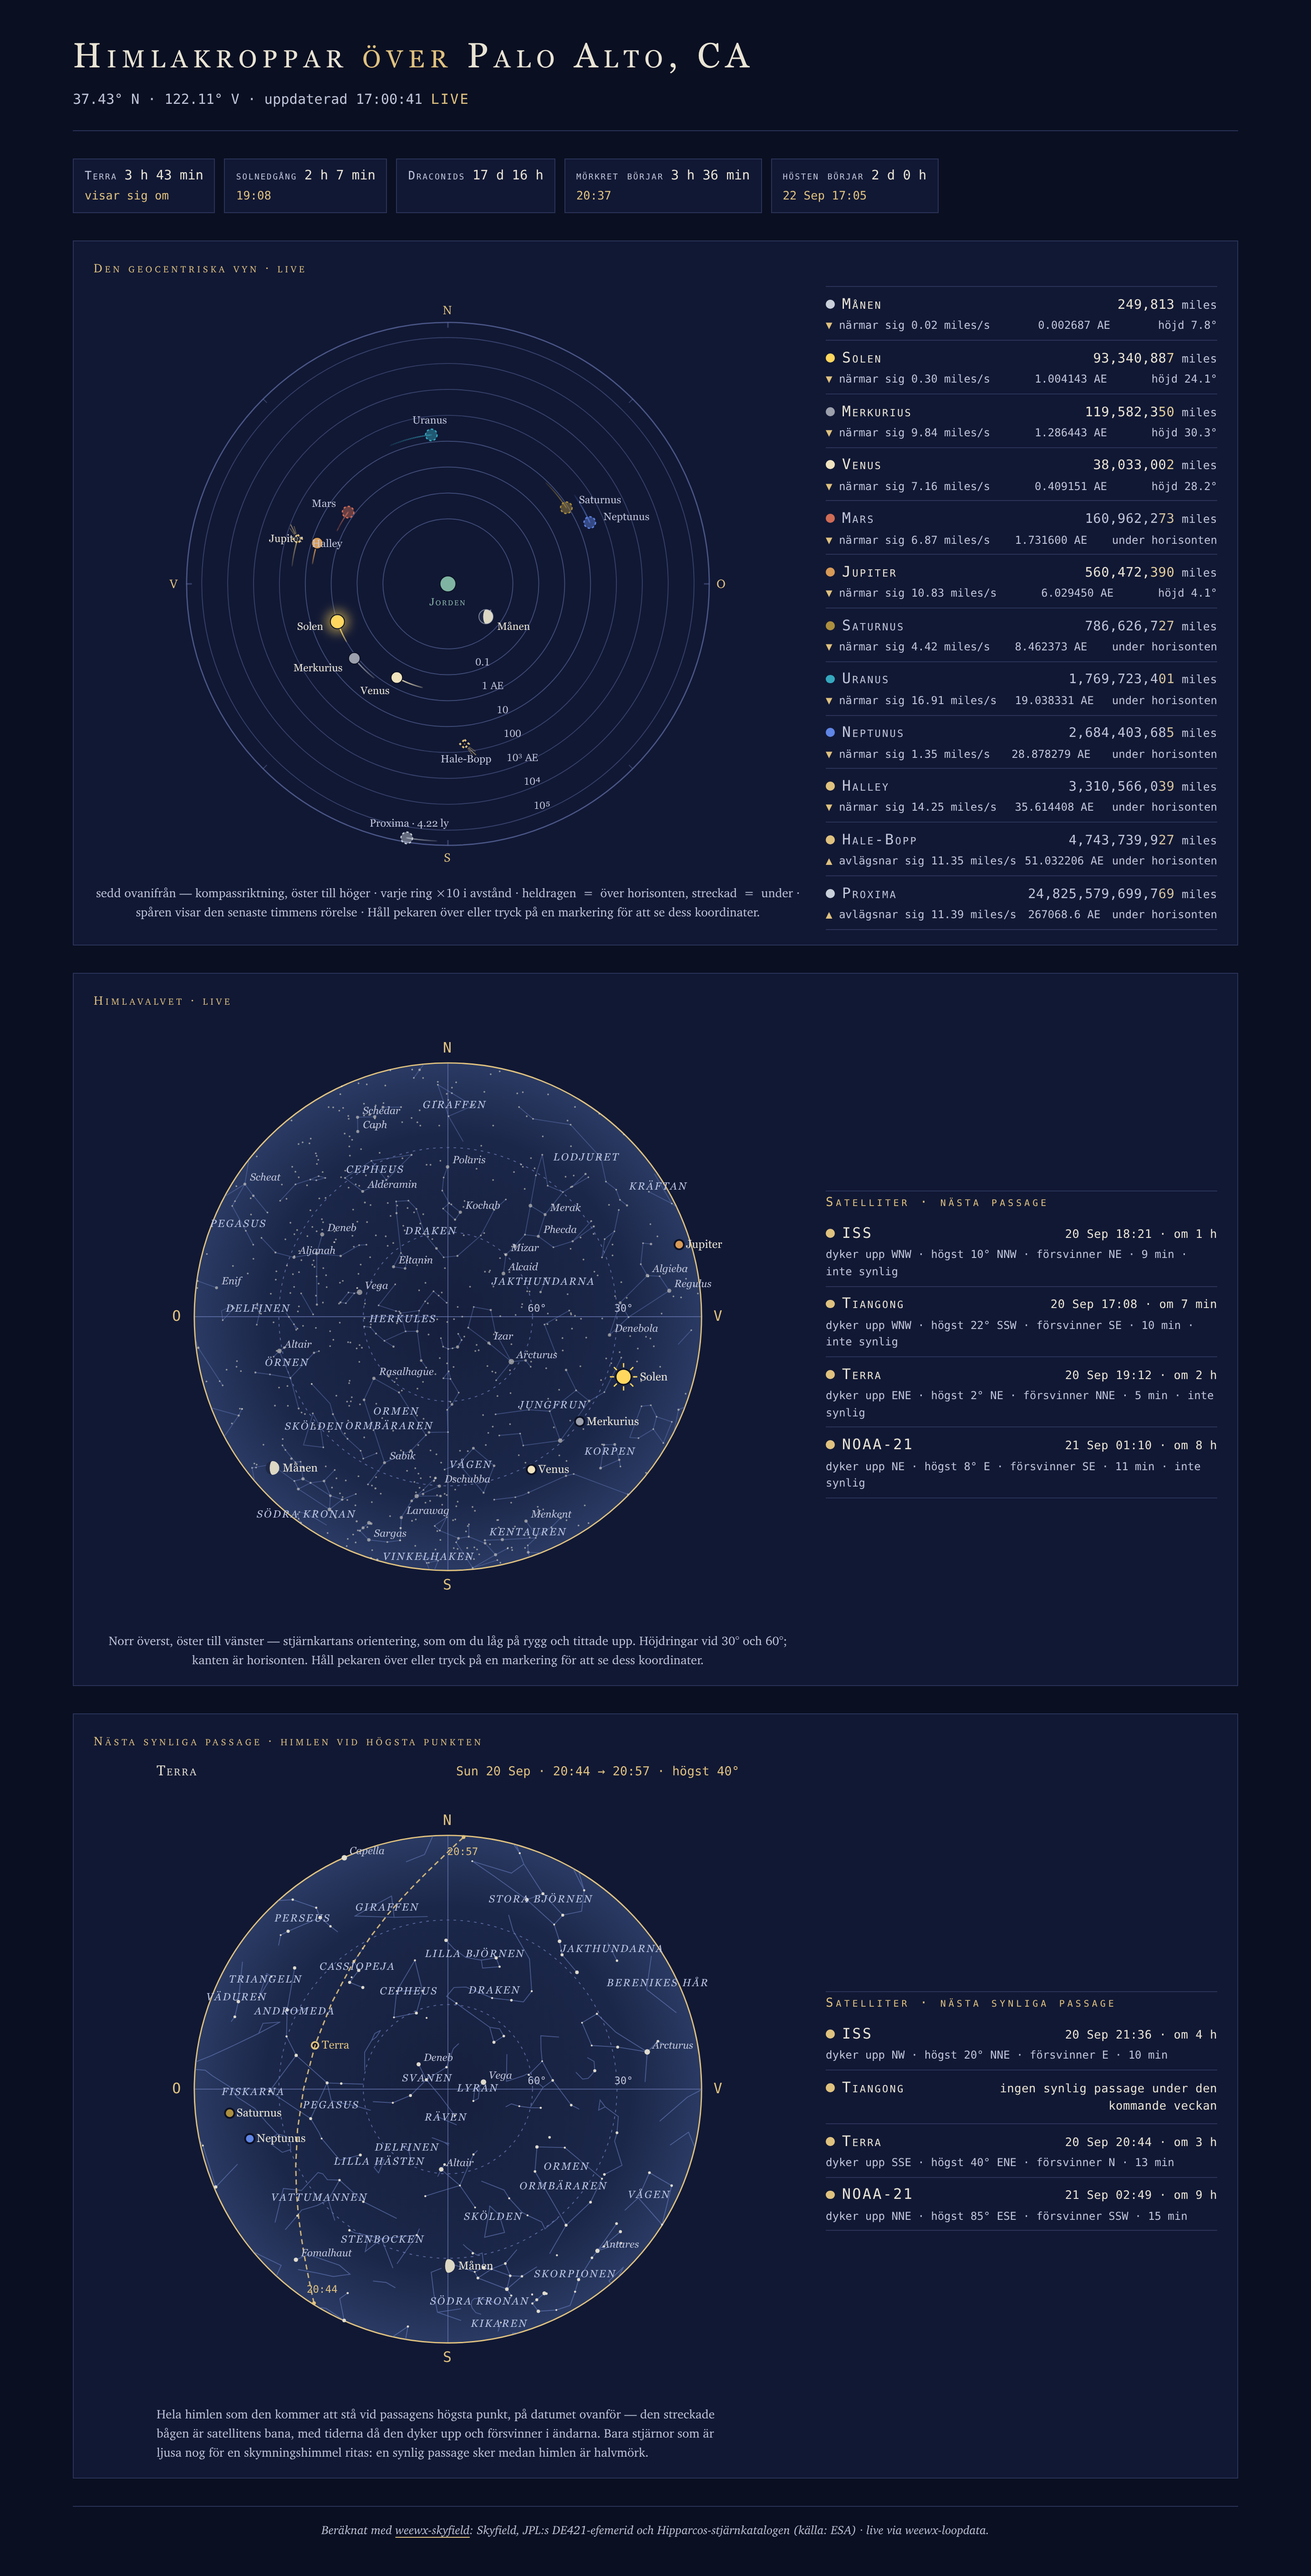
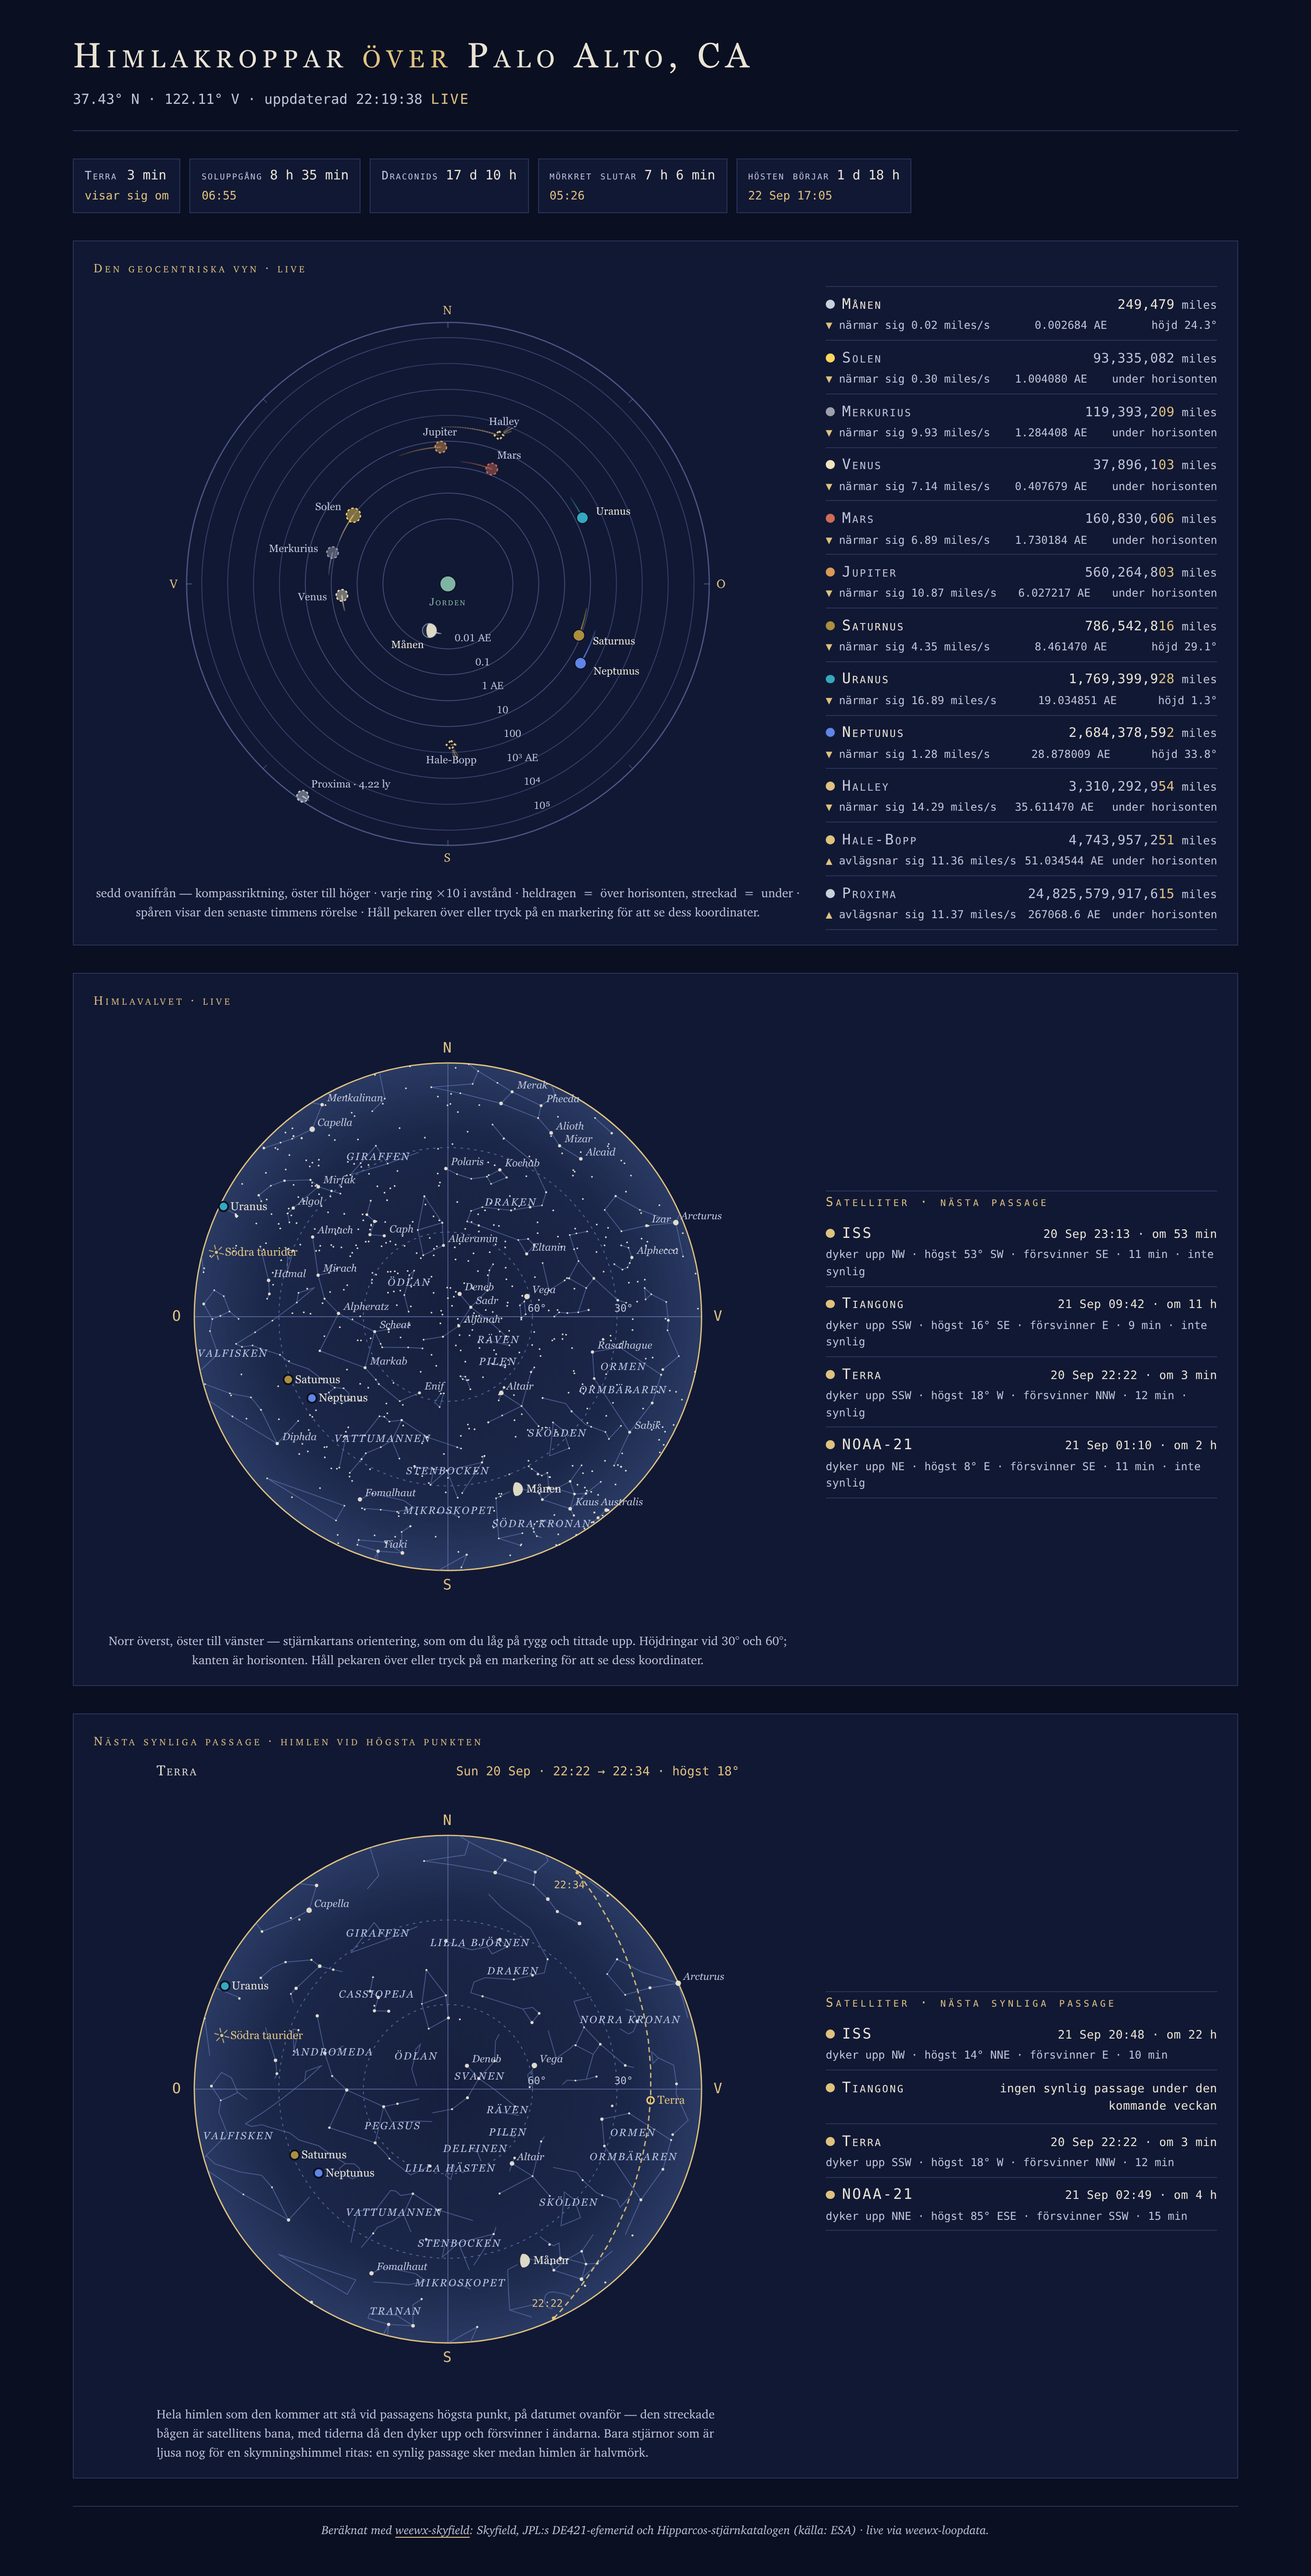
Reshoot the screenshots and animations for 9.6.1, and remove five animations nothing linked to.

diff --git a/docs/index.md b/docs/index.md
@@ -51,11 +51,11 @@ page you leave open, on which everything moves.
 It is the bundled `Celestial` skin: a row of countdown chips over three
 panels — the Geocentric dial, the live sky dome, and the Next Visible Pass
 chart.  Here it is entire, in the bundled sample report (Palo Alto,
-mid-afternoon on 20 September 2026 — the sun, Mercury, Venus, Mars and
-Jupiter above the horizon and trailing their wake, comet Halley just
-risen beside Jupiter, the moon and Saturn, Uranus and Neptune dashed
-below, Proxima Centauri alone at the rim, Terra's evening pass counting
-down in the first chip, and every odometer ticking):
+late evening on 20 September 2026 — the moon, Saturn and Neptune up and
+trailing their wake with Uranus just clearing the horizon, the sun,
+Mercury, Venus, Mars and Jupiter dashed below with comet Halley beside
+Jupiter, Proxima Centauri alone at the rim, Terra's evening pass five
+minutes off in the first chip, and every odometer ticking):
 
 ![The Celestial page](https://raw.githubusercontent.com/chaunceygardiner/weewx-celestial/master/CelestialSampleReport.png)
 
